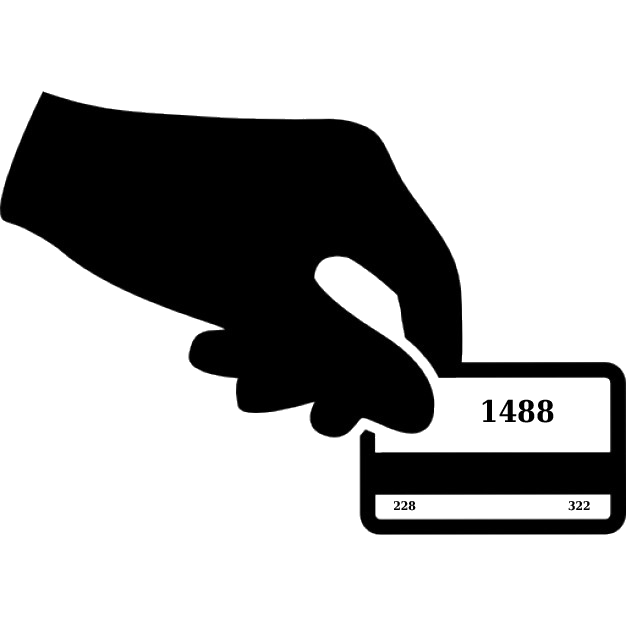
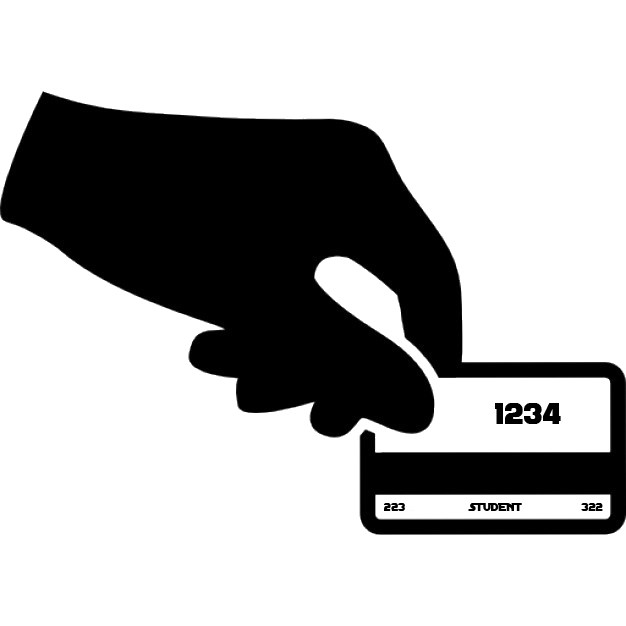
some minor updates(chunk deleted and pages edited)

diff --git a/src/components/exercises-list.component.js b/src/components/exercises-list.component.js
@@ -120,7 +120,7 @@ export default class ExerciseList extends Component {
                                             за способом видалення – обрізаний чи необрізаний.
                                         </p>
                                         <p className="service-info__who">
-                                            для жінок та мужчин
+                                            для жінок та чоловіків
                                         </p>
                                 </div>
                             </div>
@@ -130,13 +130,13 @@ export default class ExerciseList extends Component {
 
                                     </img>
                                         <h6>
-                                            Масажик
+                                            Масаж
                                         </h6>
                                         <p className="service-info__text mb11">
                                             Масаж як лікувальний та профілактичний засіб застосовується ще від початку виникнення людської цивілізації. Він виник як один із видів народної медицини ще у первісному суспільстві, та розвивався разом із іншими видами народної медицини у різних племен та народів. Неможливо встановити точне місце виникнення масажу.
                                         </p>
                                         <p className="service-info__who">
-                                            для жінок та мужчин
+                                            для жінок та чоловіків
                                         </p>
                                 </div>
                             </div>
@@ -146,13 +146,13 @@ export default class ExerciseList extends Component {
 
                                     </img>
                                         <h6>
-                                            Татушки
+                                            Тату
                                         </h6>
                                         <p className="service-info__text mb11">
                                             Зображення (малюнок) на шкірі живої людини та процедура його нанесення. Технічно татуювання полягає в ін'єкціях фарби в глибину шкіри, чим досягається довготривалість — «вічність» татуювань. Татуювання може бути декоративним, символічним, статутним (у певних соціальних групах). Татуювання та пірсинг більшості людей здається чимось ультрасучасним і молодіжним.
                                         </p>
                                         <p className="service-info__who">
-                                            для мужчин і жінок
+                                            для жінок та чоловіків
                                         </p>
                                 </div>
                             </div>
@@ -169,7 +169,7 @@ export default class ExerciseList extends Component {
                                             Більша частина термінологічного апарату і способі впливу базується на досягненнях дерматології, фізіотерапії, відновлювальної медицини, косметичної хімії, а в останні роки, і на досягненнях ортопедії.
                                         </p>
                                         <p className="service-info__who">
-                                            тільки для мужчин
+                                            для жінок та чоловіків
                                         </p>
                                 </div>
                             </div>
@@ -194,7 +194,7 @@ export default class ExerciseList extends Component {
                                             Макіяж залежить від пори року, часу доби (ранок, день, вечір), а головне — від свого призначення, вимагає повної гармонії зі всім зовнішнім виглядом, з одягом, аксесуарами, біжутерією, манікюром. Найчастіше виділяють денний (повсякденний) і вечірній (урочистий) макіяж. Макіяж пов'язаний з модними художніми напрямами, — саме вони задають колірну гамму, форму брів, губ, очей та іншим частинам тіла
                                         </p>
                                         <p className="service-info__who">
-                                            тільки для жінок
+                                            для жінок та чоловіків
                                         </p>
                                 </div>
                             </div>
@@ -218,7 +218,7 @@ export default class ExerciseList extends Component {
                                             Почуття дозволяють нам миттєво орієнтуватися у світі. Органи відчуттів миттєво надійно аналізують інформацію про навколишнє середовище. Чуттєва інформація невербальна, непонійна, обмінюватися нею вкрай складно; вона важко піддається аналізу і її неможливо відтворити. Із цього виникає питання: чи можна вважати естетику наукою, оскільки наукові знання мають бути об'єктивними й не залежати від суб'єктивних характеристик особистості.
                                         </p>
                                         <p className="service-info__who">
-                                            тільки для жінок
+                                            для всіх
                                         </p>
                                 </div>
                             </div>
@@ -242,7 +242,7 @@ export default class ExerciseList extends Component {
                                             Оберіть індивідуальний догляд для вашої шкіри! Ми підготували для вас найкращі засоби для нормальної, чутливої, жирної, сухої та проблемної шкіри. Ви не знаєте, як розпізнати свій тип шкіри, а також як за нею доглядати? Ознайомтесь із характеристиками типів шкіри, які ми спеціально підготували для вас, а також із декількома простими порадами для щоденного догляду.
                                         </p>
                                         <p className="service-info__who">
-                                            для бабуль, дідуль, для всіх
+                                            для всіх
                                         </p>
                                 </div>
                             </div>
@@ -291,7 +291,7 @@ export default class ExerciseList extends Component {
                                             Ступінь і швидкість появи засмаги не є показниками здоров'я, а пов'язані з генетичними особливостями людини. Тривале проживання предків північних народів в середніх і високих широтах, в умовах меншої освітленості, ніж в Африці, призвело до підвищення потреби у вітаміні D. Цей вітамін необхідний для нормального формування кісток.
                                         </p>
                                         <p className="service-info__who">
-                                            для жінок і для особливих чоловіків
+                                            для жінок та чоловіків
                                         </p>
                                 </div>
                             </div>
@@ -321,12 +321,12 @@ export default class ExerciseList extends Component {
                             </div>
                             <div className="col-xl-4 col-lg-6">
                                 <div className="service-info">
-                                    <img src="files/imgs/fitness-service/box.jpg" alt="fitness service">
+                                    <img src="files/imgs/fitness-service/box.png" alt="fitness service">
 
                                     </img>
                                         <div className="wrap d-flex justify-content-between">
                                             <h6>
-                                                Супер зачіски
+                                                Зачіски
                                             </h6>
                                             <div data-description="можлива оплата криптою"
                                                  className="price d-flex justify-content-center align-items-center">
@@ -350,7 +350,7 @@ export default class ExerciseList extends Component {
                                     </img>
                                         <div className="wrap d-flex justify-content-between">
                                             <h6>
-                                                Лазерна епіляція
+                                                Епіляція
                                             </h6>
                                             <div data-description="можлива оплата криптою"
                                                  className="price d-flex justify-content-center align-items-center">
@@ -363,7 +363,7 @@ export default class ExerciseList extends Component {
                                             Лазерна епіляція здійснюється з використанням спеціального приладу — лазера. Метод заснований на принципі «селективного фототермоліза» — виборчому поглинанні світла різними біологічними структурами: пігмент волосся — це меланін, який зосереджений в стержні і волосяному фолікулі, здатний поглинати світлові хвилі певної довжини (оптимальний діапазон 750—810 нм).
                                         </p>
                                         <p className="service-info__who">
-                                            для жінок і особливих чоловіків
+                                            для жінок та чоловіків
                                         </p>
                                 </div>
                             </div>

diff --git a/src/components/create-exercise.component.js b/src/components/create-exercise.component.js
@@ -22,7 +22,8 @@ export default class CreateExercises extends Component {
                                             Сидоренко Марина
                                         </p>
                                         <p className="trainer__skills">
-                                            Майстер лазерної епіляції та шугаринку. Дипломований спеціаліст.
+                                            Майстер епіляції та шугарингу.<br />
+                                            Дипломований спеціаліст.
                                         </p>
                                         <a href="Devjatov.html" className="trainer__more btn">Докладніше</a>
                                 </div>
@@ -37,7 +38,8 @@ export default class CreateExercises extends Component {
                                             Гончар Наталка
                                         </p>
                                         <p className="trainer__skills">
-                                            Майстер з косметологічних послуг. Дипломований спеціаліст.
+                                            Майстер з косметологічних послуг.<br />
+                                            Дипломований спеціаліст.
                                         </p>
                                         <a href="Tarabatjeva.html" className="trainer__more btn">Докладніше</a>
                                 </div>
@@ -52,7 +54,8 @@ export default class CreateExercises extends Component {
                                             Козак Борис
                                         </p>
                                         <p className="trainer__skills">
-                                            Майстер манікюру та педікюру. Автор послуги Нігті 'Слава Україні'. Дипломований спеціаліст.
+                                            Майстер манікюру та педікюру. Автор послуги "Нігті Слава Україні".<br />
+                                            Дипломований спеціаліст.
                                         </p>
                                         <a href="Shashkov.html" className="trainer__more btn">Докладніше</a>
                                 </div>
@@ -67,7 +70,8 @@ export default class CreateExercises extends Component {
                                             Жук Братко
                                         </p>
                                         <p className="trainer__skills">
-                                            Майстер мейкапу. Автор послуги "Покраска Морди". Дипломований спеціаліст.
+                                            Майстер мейкапу. Автор послуги "Красуня Ляля".<br />
+                                            Дипломований спеціаліст.
                                         </p>
                                         <a href="Gasimov.html" className="trainer__more btn">Докладніше</a>
                                 </div>
@@ -82,7 +86,7 @@ export default class CreateExercises extends Component {
                                             Таран Забава
                                         </p>
                                         <p className="trainer__skills">
-                                            Майстер зачісок. Автор послуг "Лиса Башка Дай Пиріжка" та "Зачіска Клоуна". Дипломований спеціаліст.
+                                            Майстер зачісок. Автор послуг "Буревій емоцій" та "Гарячий юнак". Дипломований спеціаліст.
                                         </p>
                                         <a href="Nikitin.html" className="trainer__more btn">Докладніше</a>
                                 </div>
@@ -97,7 +101,8 @@ export default class CreateExercises extends Component {
                                             Чумак Явдоха
                                         </p>
                                         <p className="trainer__skills">
-                                            Майстер-масажист. Майбутній автор послуги "Руки-базуки" Дипломований спеціаліст
+                                            Майстер-масажист. Майбутній автор послуги "Золоті руки".<br />
+                                            Дипломований спеціаліст
                                         </p>
                                         <a href="Nikitina.html" className="trainer__more btn">Докладніше</a>
                                 </div>

diff --git a/src/components/create-user.component.js b/src/components/create-user.component.js
@@ -1,12 +1,6 @@
 import React, { Component } from 'react';
-import { YMaps, Map } from "react-yandex-maps";
 import 'bootstrap/dist/css/bootstrap.min.css';
 import '../App.css';
-
-const mapData = {
-    center: [55.751574, 37.573856],
-    zoom: 5,
-};
 
 export default class CreateUser extends Component {
     constructor(props) {
@@ -36,7 +30,7 @@ export default class CreateUser extends Component {
                             <div className="col-xl-4 col-lg-3">
                                 <div className="mail">
                                     <a className="mailto"
-                                       href="mailto:Formafitnessclub@mail.ru">TypaBusinessMan1488228@gmail.com</a>
+                                       href="mailto:arsenyakym@gmail.com">arsenyakym@gmail.com</a>
                                 </div>
                             </div>
                             <div className="col-xl-3 col-lg-4">
@@ -44,7 +38,7 @@ export default class CreateUser extends Component {
                                     <img className="tel" src="/files/imgs/phone.png" alt="care">
 
                                     </img>
-                                        <a href="tel:89690402000">8-800-555-35-35</a>
+                                        <a href="tel:12345678910">1-234-567-89-10</a>
                                         <img className="whatsapp" src="/files/imgs/whatsapp.png" alt="care">
 
                                         </img>
@@ -54,18 +48,14 @@ export default class CreateUser extends Component {
                     </div>
                 </section>
                 <section className="map">
-                    <div className="container-fluid">
-                        <div className="row">
-                            <div className="col-xl-12 no-padding">
-                                <div className="yandex-map">
-                                    <YMaps>
-                                        <Map
-                                            defaultState={mapData}
-                                            width='100%'
-                                        >
-                                        </Map>
-                                    </YMaps>
-                                </div>
+                    <div className="no-container-fluid">
+                        <div className="row mx-0">
+                            <div className="col-xl-12 px-0">
+                                <iframe
+                                    src="https://www.google.com/maps/embed?pb=!1m18!1m12!1m3!1d164705.55762681522!2d23.872152863506173!3d49.83260464310914!2m3!1f0!2f0!3f0!3m2!1i1024!2i768!4f13.1!3m3!1m2!1s0x473add7c09109a57%3A0x4223c517012378e2!2z0JvRjNCy0ZbQsiwg0JvRjNCy0ZbQstGB0YzQutCwINC-0LHQu9Cw0YHRgtGMLCA3OTAwMA!5e0!3m2!1suk!2sua!4v1590664295947!5m2!1suk!2sua"
+                                    width="100%" height="150%" frameBorder="0" style={{border:0}} allowFullScreen=""
+                                    aria-hidden="false" tabIndex="0">
+                                </iframe>
                             </div>
                         </div>
                     </div>
@@ -94,7 +84,7 @@ export default class CreateUser extends Component {
                                         Надсилайте своє резюме до нас на пошту
                                     </p>
                                     <a className="mailto"
-                                       href="mailto:Formafitnessclub@mail.ru">TypaBusinessMan1488228@gmail.com</a>
+                                       href="mailto:arsenyakym@gmail.com">arsenyakym@gmail.com</a>
                                 </div>
                             </div>
                             <div className="col-xl-6 col-lg-7">

diff --git a/src/components/special-offers.component.js b/src/components/special-offers.component.js
@@ -20,10 +20,10 @@ export default class CreateOffers extends Component {
                             <div className="col-xl-6 col-lg-6">
                                 <div className="card-information">
                                     <p className="card-information__title">
-                                        Агов молодик, <span>красунчик!</span>
+                                        Агов молодик, <span>красуне!</span>
                                     </p>
                                     <p className="card-information__text">
-                                        На всі клубні карти <span>-15%</span> геям, лесбіянкам, трансгендерам, блогерам.
+                                        На всі клубні карти <span>-15%</span> студентам та контент-мейкерам
                                     </p>
                                     <a href="https://imgur.com/a/AI1AO71" className="request btn order">
                                         залишити заявку

diff --git a/src/App.js b/src/App.js
@@ -1,11 +1,9 @@
 import React from 'react';
 import 'bootstrap/dist/css/bootstrap.min.css';
 import { BrowserRouter as Router, Route} from "react-router-dom";
-// import './App.css';
 
 import Navbar from "./components/navbar.component"
 import ExercisesList from "./components/exercises-list.component";
-import EditExercise from "./components/edit-exercise.component";
 import CreateExercise from "./components/create-exercise.component";
 import CreateUser from "./components/create-user.component";
 import SpecialOffers from "./components/special-offers.component";
@@ -17,7 +15,6 @@ function App() {
           <div className="no-container">
               <Navbar />
               <Route path="/" exact component={ExercisesList} />
-              <Route path="/edit/:id" component={EditExercise} />
               <Route path="/create" component={CreateExercise} />
               <Route path="/user" component={CreateUser} />
               <Route path="/offer" component={SpecialOffers} />

diff --git a/src/App.css b/src/App.css
@@ -109,8 +109,9 @@ a:hover {
   color: #000;
 }
 
-.yandex-map {
+.map {
   box-shadow: 0 0 13px 3px rgba(0, 0, 0, 0.09);
+  padding-bottom: 78px;
 }
 
 /* ----- Club-Info ----- */
@@ -495,7 +496,7 @@ a:hover {
 
 .card-information {
   color: #131313;
-  margin: 150px 0 0 25px;
+  margin: 150px 0 343px 25px;
 }
 
 .card-information__title {

diff --git a/backend/routes/exercises.js b/backend/routes/exercises.js
@@ -1,4 +1,4 @@
-const router = require('express').Router();
+    const router = require('express').Router();
 let Exercise = require('../models/exercise.model');
 
 router.route('/').get((req, res) => {
